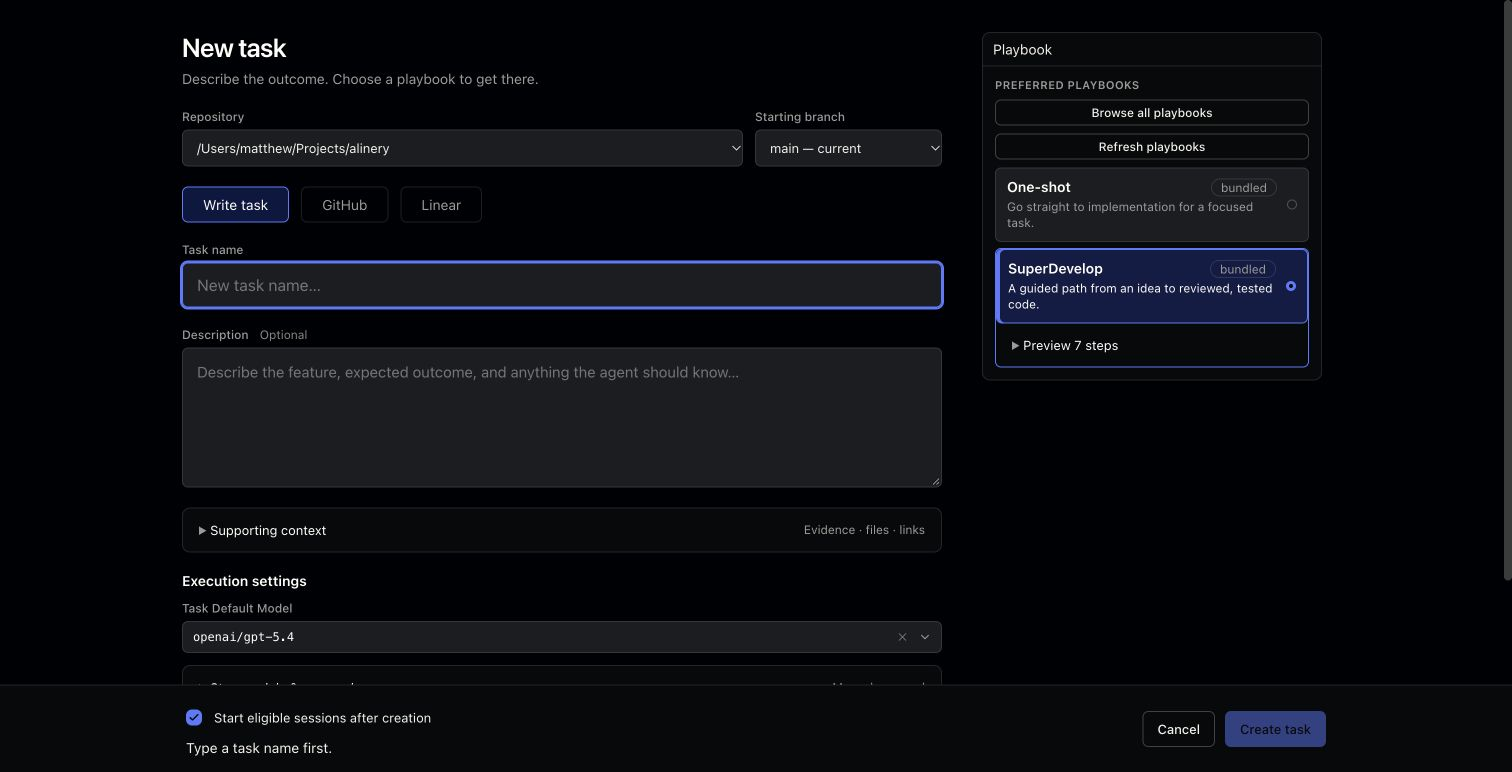
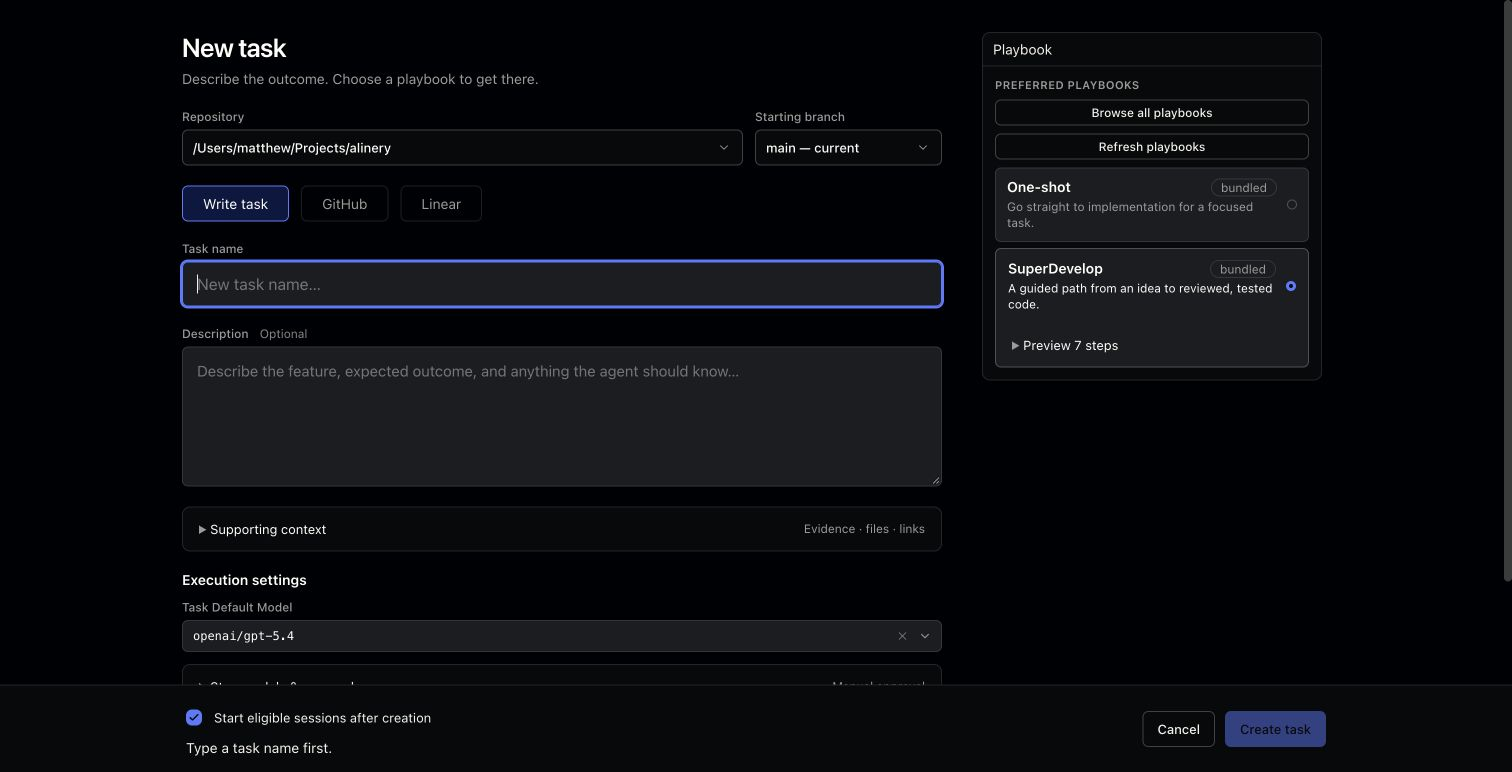
fix: refine task selectors and playbook selection styling

diff --git a/alinery-app/src/views/CreateTaskPage.tsx b/alinery-app/src/views/CreateTaskPage.tsx
@@ -1,3 +1,4 @@
+import { ChevronDown } from "lucide-react";
 import { useEffect, useRef, useState, useSyncExternalStore } from "react";
 import { flushSync } from "react-dom";
 import { afterPaint } from "../afterPaint";
@@ -949,46 +950,52 @@ export function CreateTaskPage({
             <div className="create-repository-source">
               <label className="create-field">
                 <span>Repository</span>
-                <select className="field-input" value={repoPath} disabled={creating || clearing || creatingRef.current} onChange={(e) => selectRepo(e.target.value)}>
-                  {knownRepos.map((repo) => (
-                    <option key={repo} value={repo}>
-                      {repo}
-                    </option>
-                  ))}
-                </select>
+                <span className="chat-select">
+                  <select className="field-input" value={repoPath} disabled={creating || clearing || creatingRef.current} onChange={(e) => selectRepo(e.target.value)}>
+                    {knownRepos.map((repo) => (
+                      <option key={repo} value={repo}>
+                        {repo}
+                      </option>
+                    ))}
+                  </select>
+                  <ChevronDown size={14} strokeWidth={1.5} aria-hidden="true" />
+                </span>
               </label>
               <div className="create-source-field">
                 <label className="create-field">
                   <span>Starting branch</span>
-                  <select
-                    className="field-input"
-                    value={baseRef ?? ""}
-                    disabled={branchesLoading || !!branchError || creating || clearing || creatingRef.current}
-                    onChange={(event) => {
-                      if (creatingRef.current || clearingRef.current || branchesLoading || branchError || branchSnapshotRequest.current !== branchRequest.current) return;
-                      const next = event.target.value;
-                      if (!branchOptions.some((option) => option.value === next)) return;
-                      dirtyRef.current = true;
-                      baseRefRef.current = next;
-                      setBaseRef(next);
-                    }}
-                  >
-                    {baseRef === null && (
-                      <option value="" disabled>
-                        {branchesLoading ? "Loading…" : "Choose a branch"}
-                      </option>
-                    )}
-                    {baseRef !== null && !branchOptions.some((option) => option.value === baseRef) && (
-                      <option value={baseRef} disabled>
-                        {unavailableBranchLabel}
-                      </option>
-                    )}
-                    {branchOptions.map((option) => (
-                      <option key={option.value} value={option.value}>
-                        {option.label}
-                      </option>
-                    ))}
-                  </select>
+                  <span className="chat-select">
+                    <select
+                      className="field-input"
+                      value={baseRef ?? ""}
+                      disabled={branchesLoading || !!branchError || creating || clearing || creatingRef.current}
+                      onChange={(event) => {
+                        if (creatingRef.current || clearingRef.current || branchesLoading || branchError || branchSnapshotRequest.current !== branchRequest.current) return;
+                        const next = event.target.value;
+                        if (!branchOptions.some((option) => option.value === next)) return;
+                        dirtyRef.current = true;
+                        baseRefRef.current = next;
+                        setBaseRef(next);
+                      }}
+                    >
+                      {baseRef === null && (
+                        <option value="" disabled>
+                          {branchesLoading ? "Loading…" : "Choose a branch"}
+                        </option>
+                      )}
+                      {baseRef !== null && !branchOptions.some((option) => option.value === baseRef) && (
+                        <option value={baseRef} disabled>
+                          {unavailableBranchLabel}
+                        </option>
+                      )}
+                      {branchOptions.map((option) => (
+                        <option key={option.value} value={option.value}>
+                          {option.label}
+                        </option>
+                      ))}
+                    </select>
+                    <ChevronDown size={14} strokeWidth={1.5} aria-hidden="true" />
+                  </span>
                 </label>
                 {branchError && (
                   <button
@@ -1491,7 +1498,9 @@ export function CreateTaskPage({
                       </label>
                       {selected && selectedSource && (
                         <details className="create-graph-preview">
-                          <summary>Preview {selectedSource.definition.step.length} steps</summary>
+                          <summary>
+                            Preview {selectedSource.definition.step.length} {selectedSource.definition.step.length === 1 ? "step" : "steps"}
+                          </summary>
                           <PlaybookGraph title={item.title ?? selectedSource.definition.title} steps={selectedSource.definition.step} variant="definition" showInspector={false} />
                         </details>
                       )}

diff --git a/alinery-app/src/theme.css b/alinery-app/src/theme.css
@@ -2009,6 +2009,7 @@ main {
 .create-footer .create-actions { flex-shrink: 0; }
 .create-footer .btn { min-height: 36px; }
 .createpage-with-preview .create-repository-source .field-input { font-size: calc(13px * var(--ui-scale)); padding: 9px 10px; }
+.createpage-with-preview .create-repository-source select.field-input { padding-inline-end: 36px; }
 .createpage-with-preview .task-default-model .field-input { height: 36px; font-size: calc(13px * var(--ui-scale)); }
 .createpage-with-preview .worktree-row { display: grid; grid-template-columns: repeat(2, minmax(0, 1fr)); margin: 0; }
 .createpage-with-preview .step-model-head, .createpage-with-preview .step-model-row { grid-template-columns: minmax(0, 1fr) minmax(8rem, 1.4fr); row-gap: 4px; }
@@ -2045,8 +2046,9 @@ main {
   min-width: 0;
 }
 .playbook-picker-card.selected {
-  border: 1px solid var(--accent);
+  border: 1px solid var(--border-strong);
   border-radius: var(--radius-sm);
+  background: var(--surface-subtle);
 }
 .playbook-picker-card .playbook-definition-graph {
   padding: 12px 6px;
@@ -2071,14 +2073,13 @@ main {
 .playbook-option:hover {
   border-color: var(--border-strong);
 }
-.playbook-option:focus-within {
+.playbook-option:has(input:focus-visible) {
   outline: 2px solid var(--accent);
   outline-offset: 2px;
 }
 .playbook-option.selected {
-  border-color: var(--accent);
-  background: var(--accent-subtle);
-  box-shadow: inset 3px 0 var(--accent);
+  border-color: transparent;
+  background: transparent;
 }
 .playbook-option-input {
   position: absolute;
